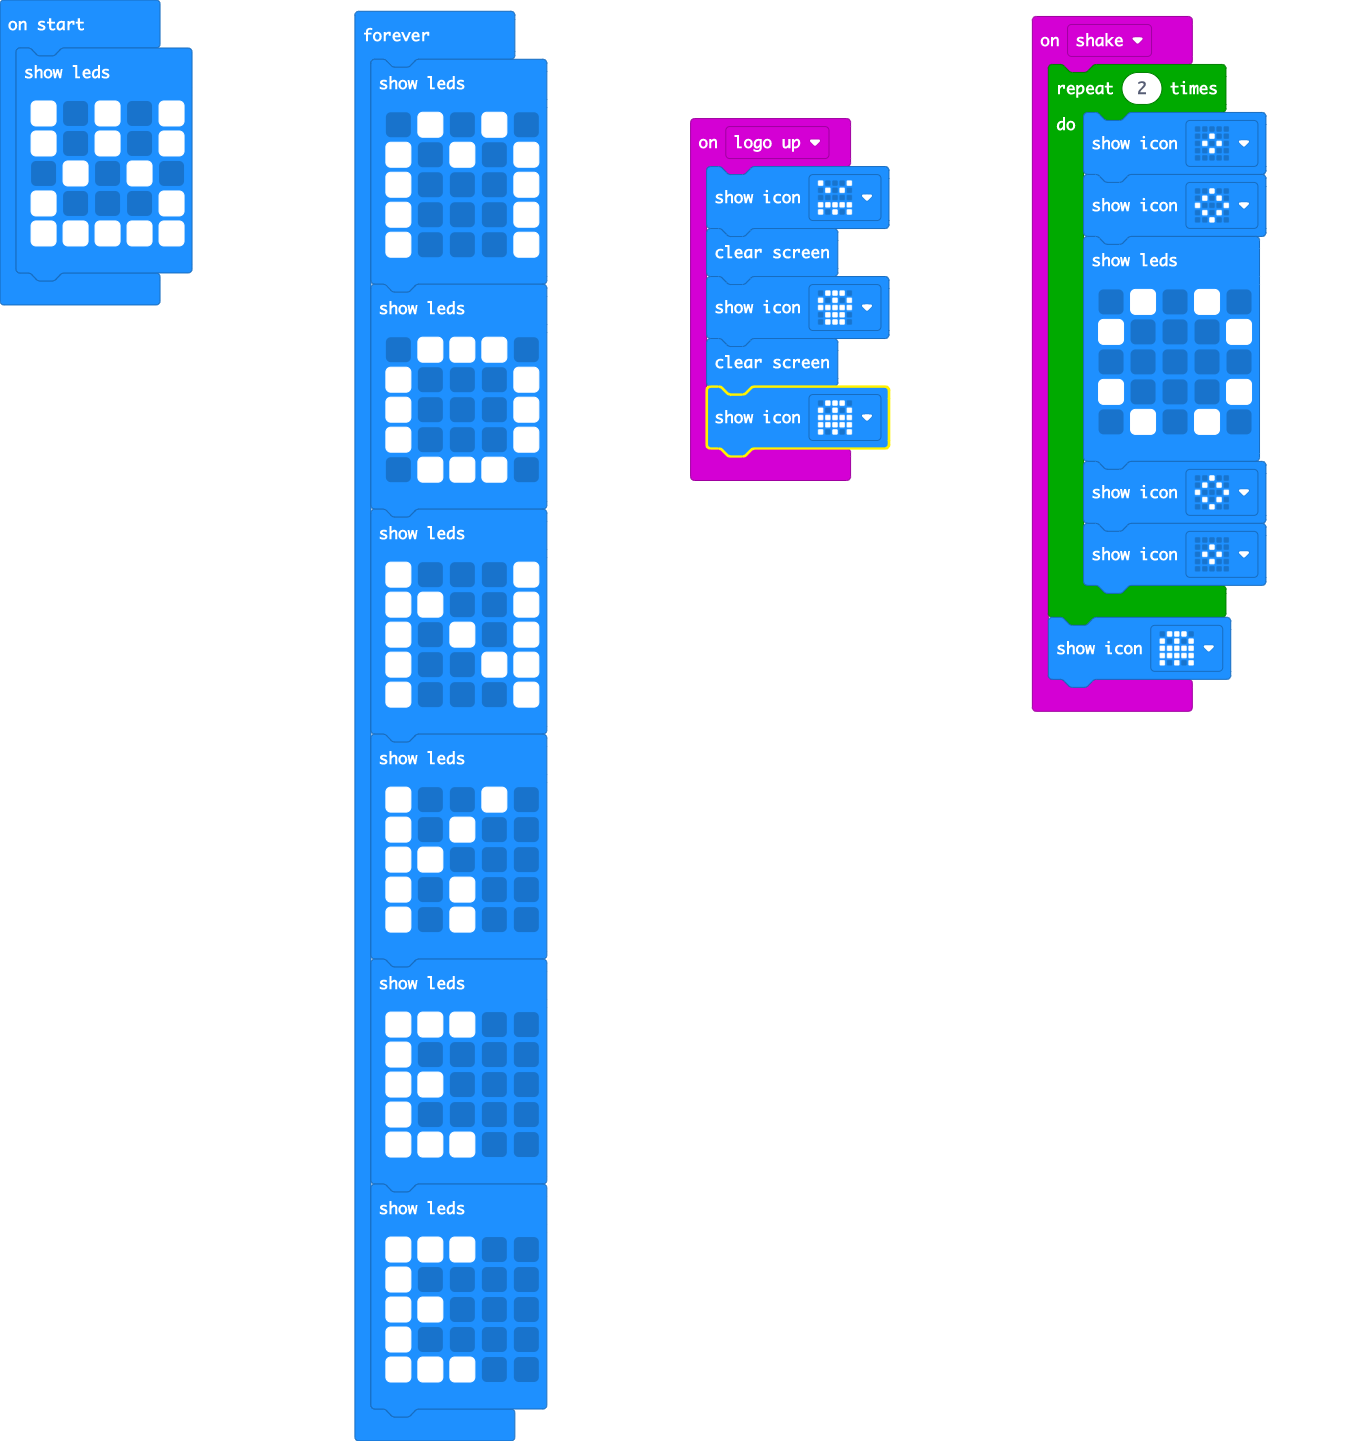
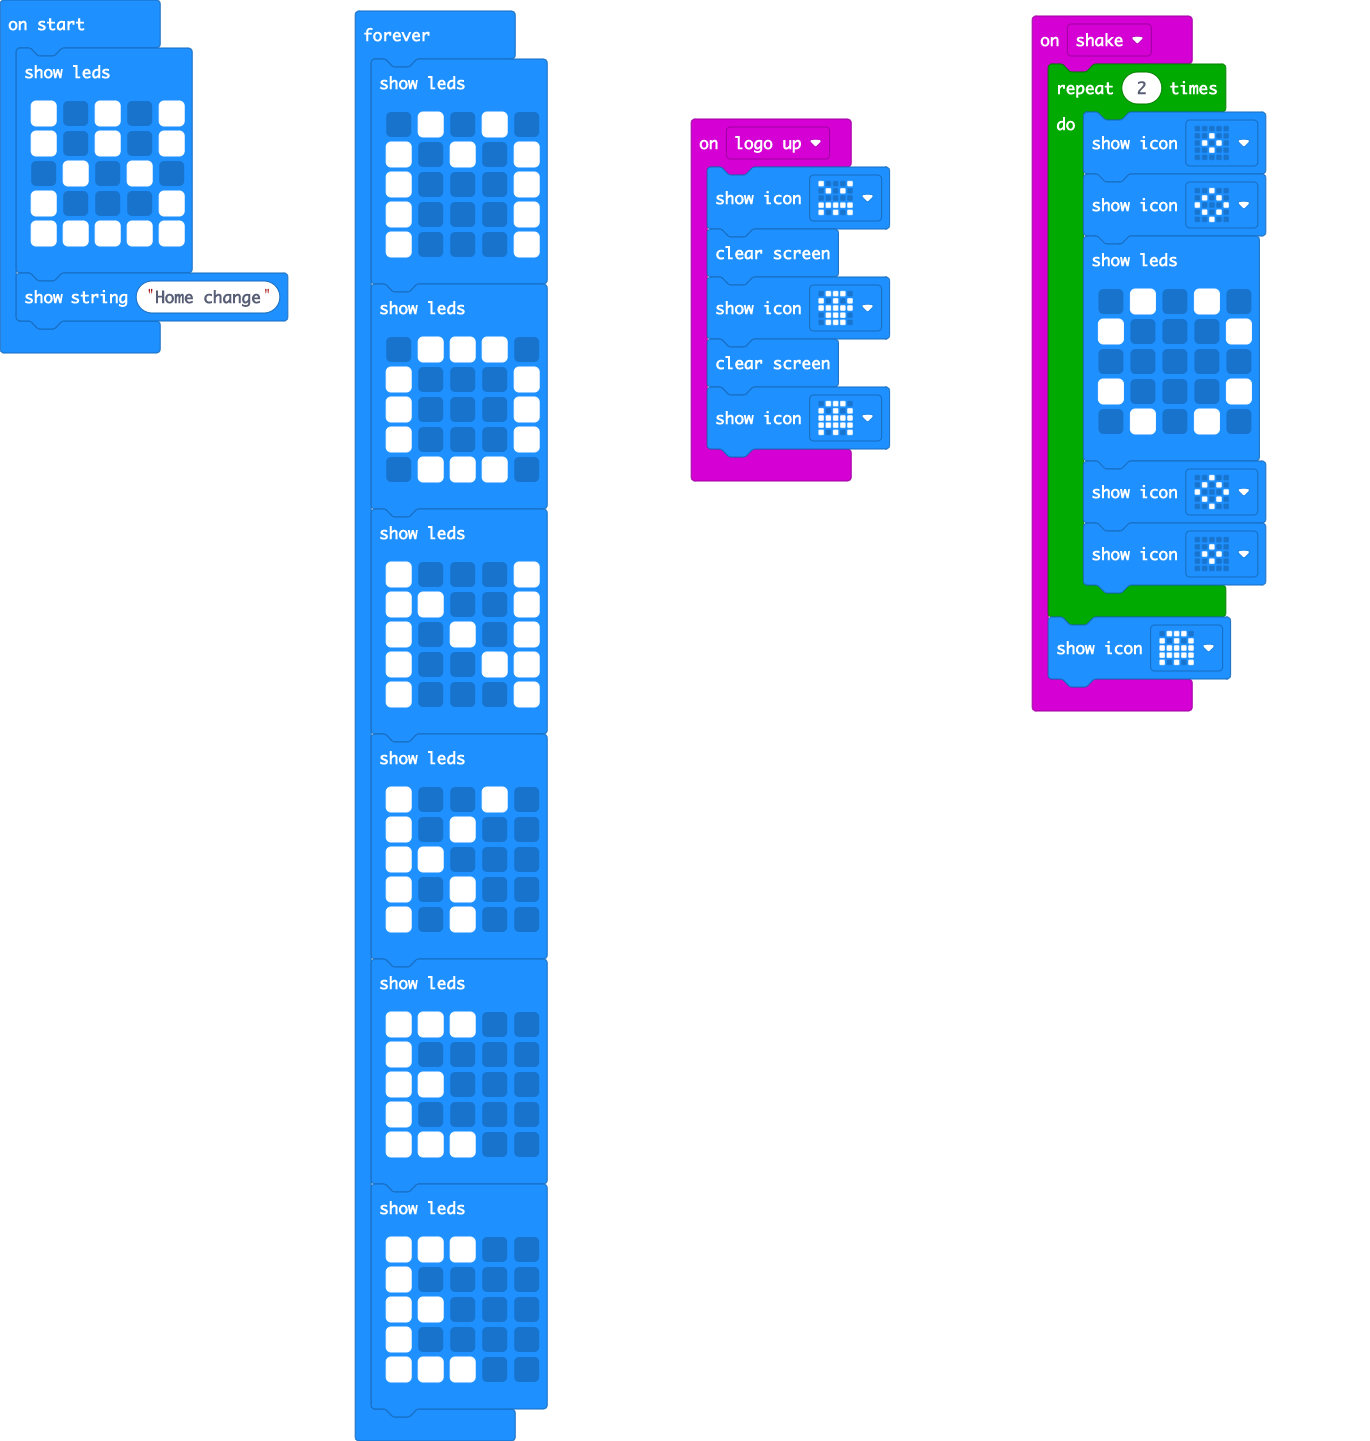
Home change

diff --git a/main.ts b/main.ts
@@ -28,6 +28,7 @@ basic.showLeds(`
     # . . . #
     # # # # #
     `)
+basic.showString("Home change")
 basic.forever(function () {
     basic.showLeds(`
         . # . # .
